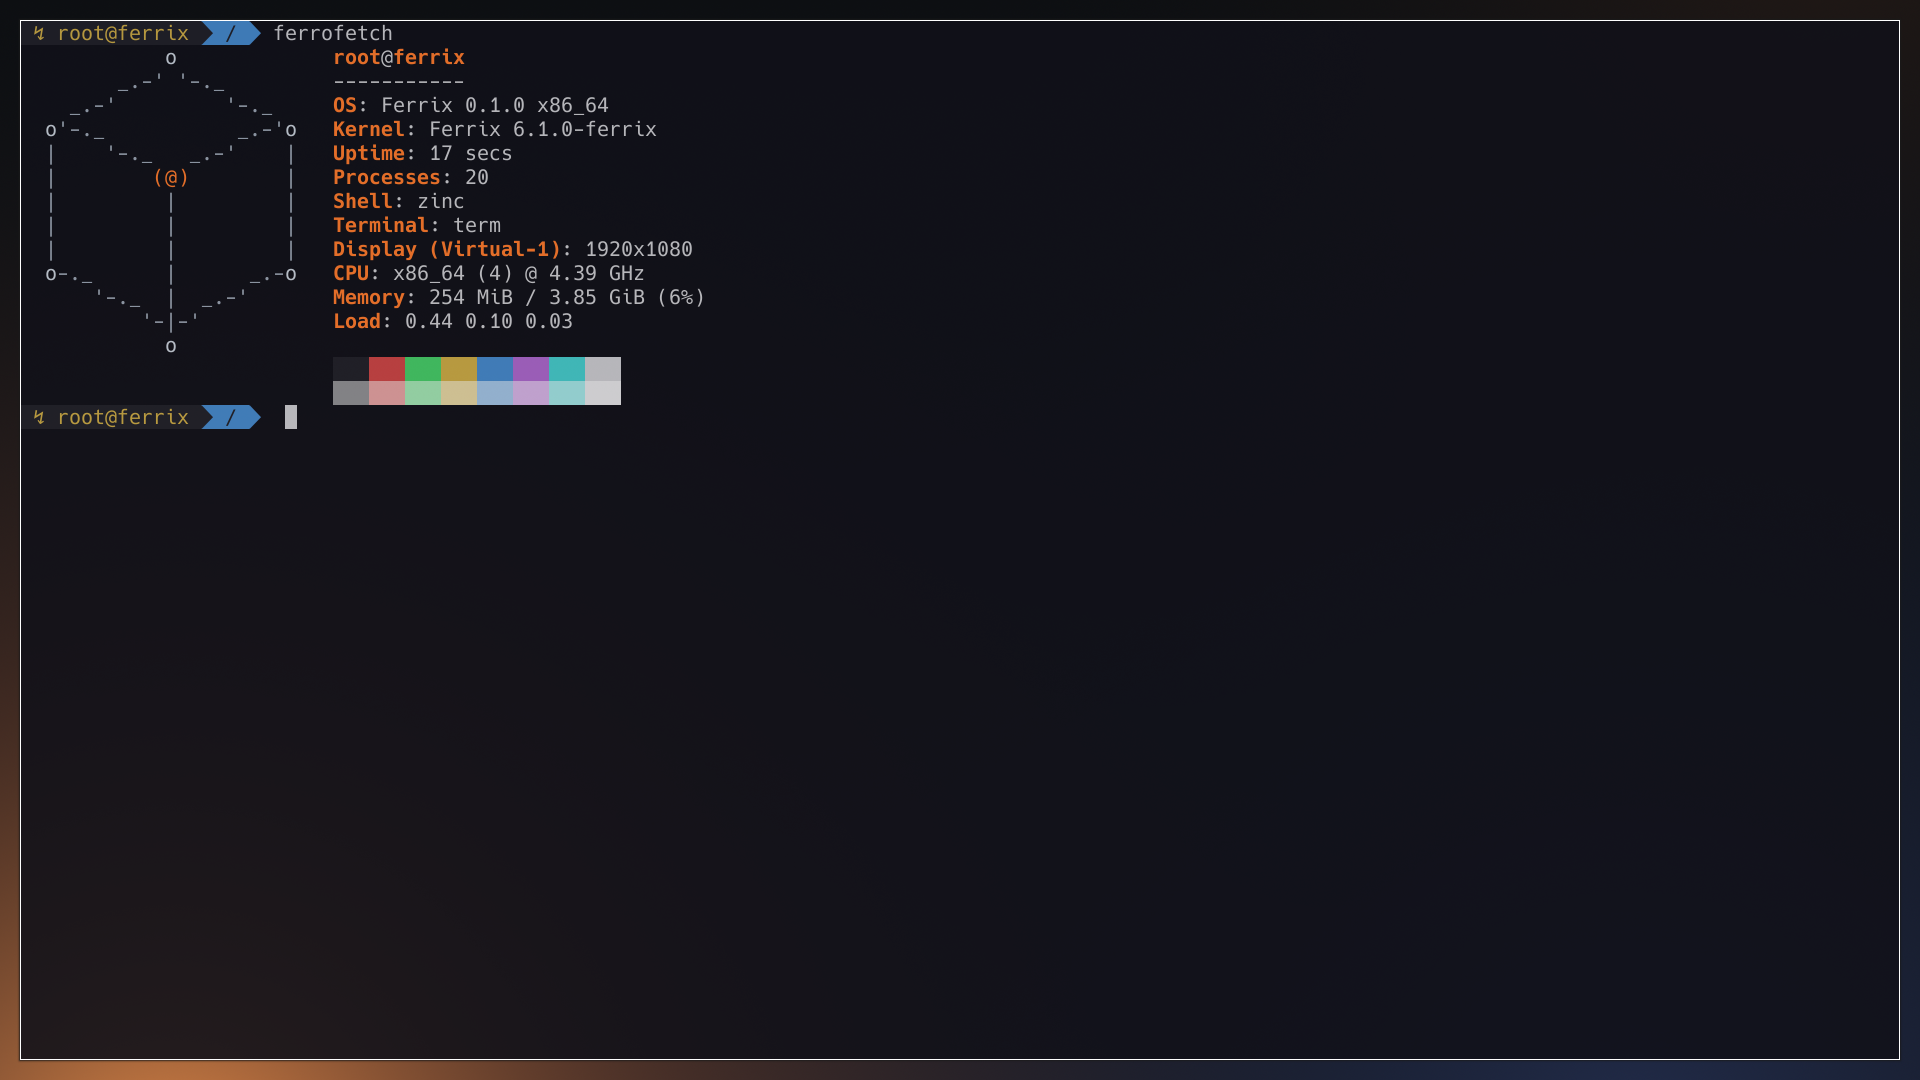
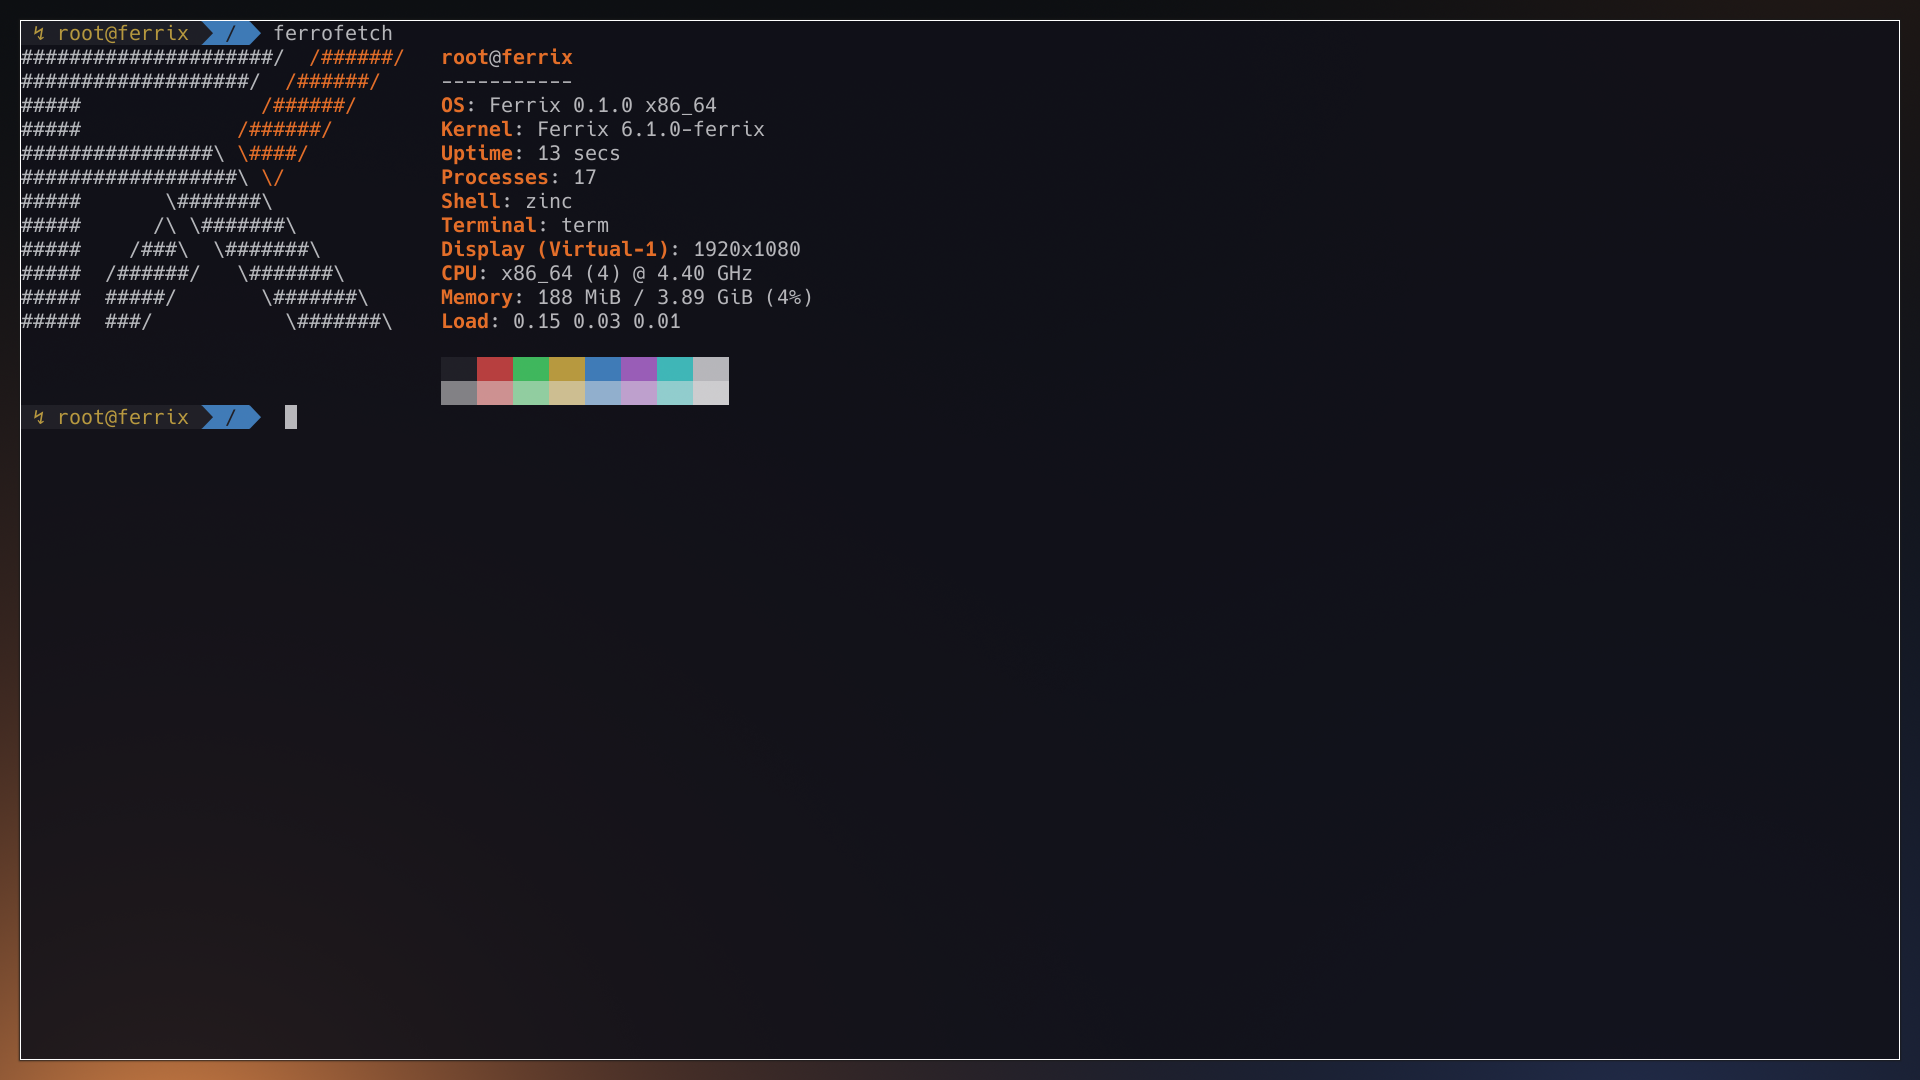
ferrofetch's screenshot shows the FX mark
Taken as the others were: the desktop's terminal on Ferrix at main
65a33486c (x86-64 under KVM, the ember background), captured over VNC with
nothing edited after.

Changed region(s): [[0.0, 0.0306, 0.4062, 0.3972]]

diff --git a/ferrofetch/README.md b/ferrofetch/README.md
@@ -2,7 +2,7 @@
 
 ![ferrofetch in the desktop's terminal](screenshot.png)
 
-*ferrofetch in the desktop's terminal. On Ferrix (x86-64 under KVM) at main 2f067e40f, 2026-10-03; nothing edited after capture.*
+*ferrofetch in the desktop's terminal, with the FX mark. On Ferrix (x86-64 under KVM) at main 65a33486c, 2026-10-04; nothing edited after capture.*
 
 Ferrix's fastfetch: the Ferrix mark beside a few lines about the machine,
 the shell and the session.
